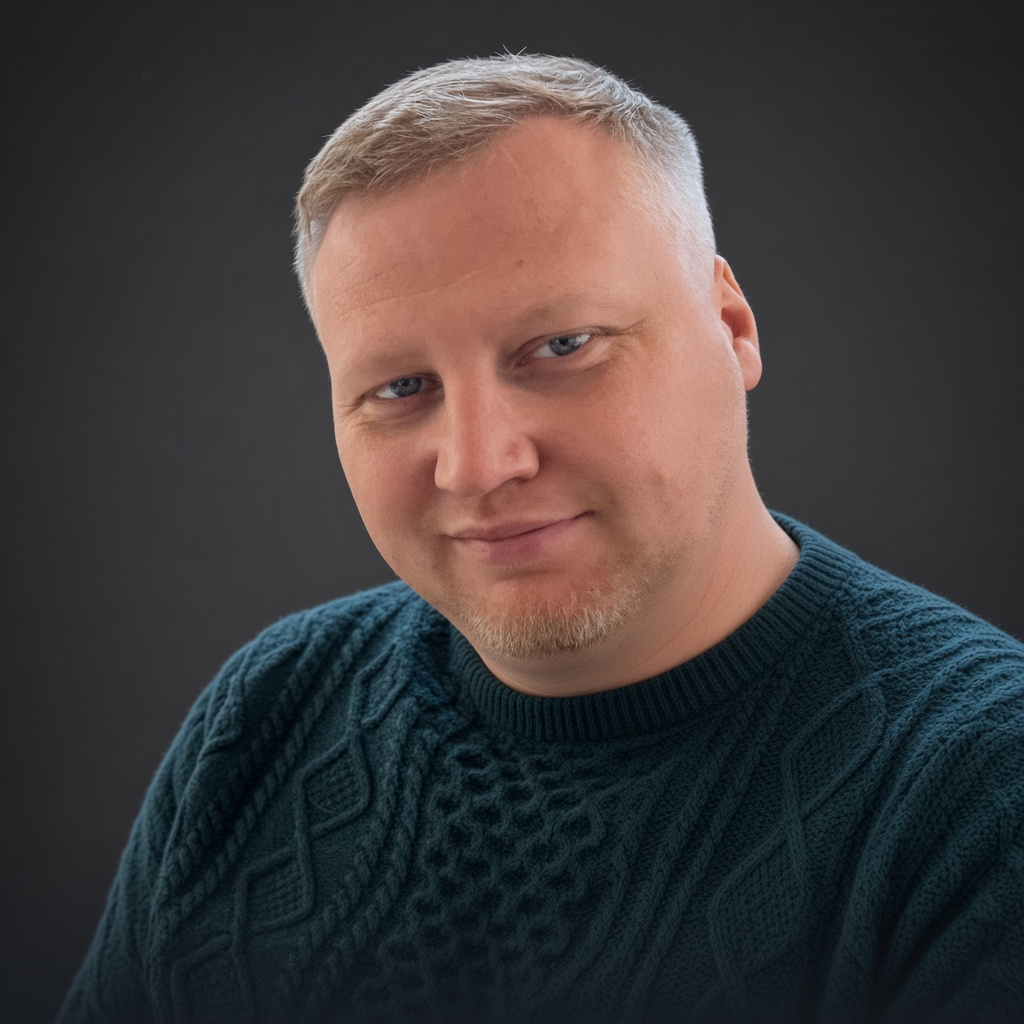
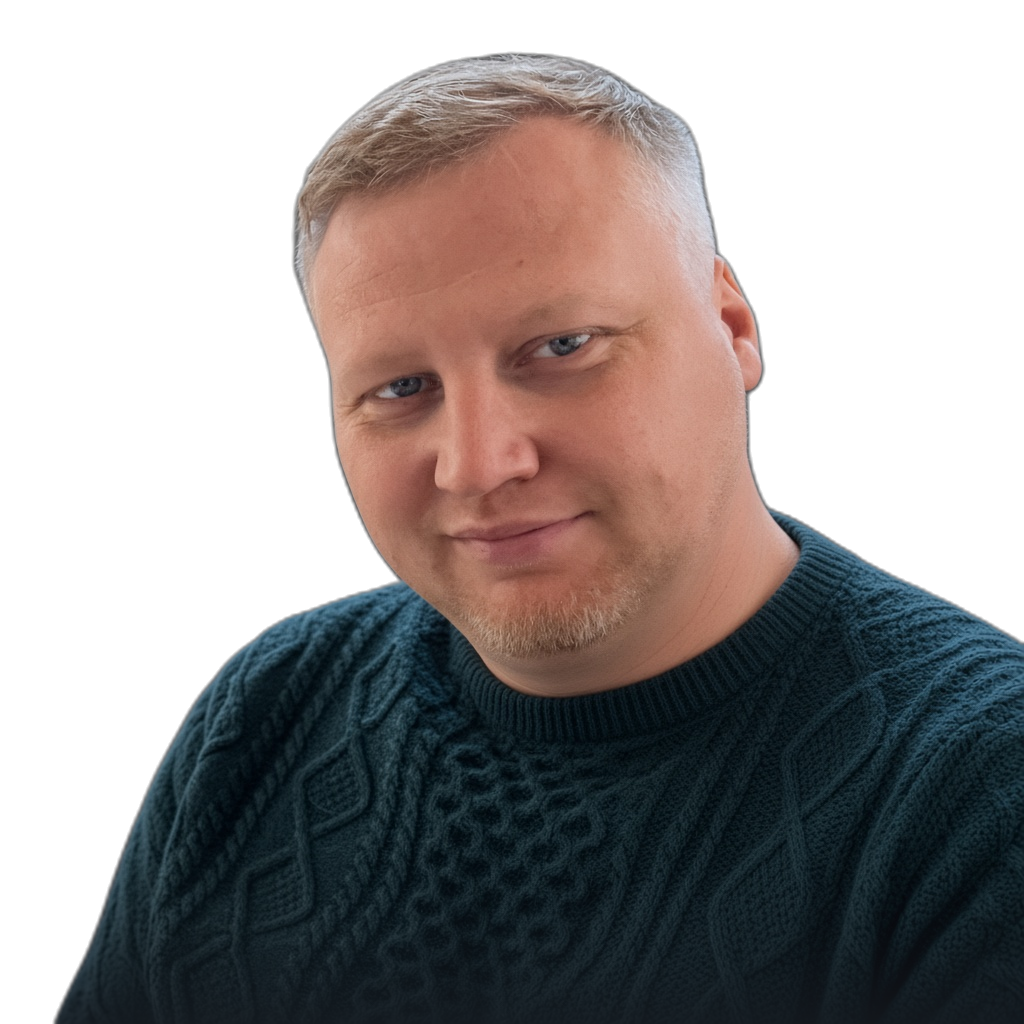
Remove the gray background from the Jiří Kika portrait.
Make the studio backdrop transparent so the page background shows through, and bump the image URL so browsers fetch the updated file.

diff --git a/index.html b/index.html
@@ -1086,7 +1086,7 @@
                 </div>
             </div>
             <figure class="profile-portrait">
-                <img src="jiri-kika-portrait.png" alt="Jiří Kika" width="400" height="400">
+                <img src="jiri-kika-portrait.png?v=2" alt="Jiří Kika" width="400" height="400">
             </figure>
         </div>
 
